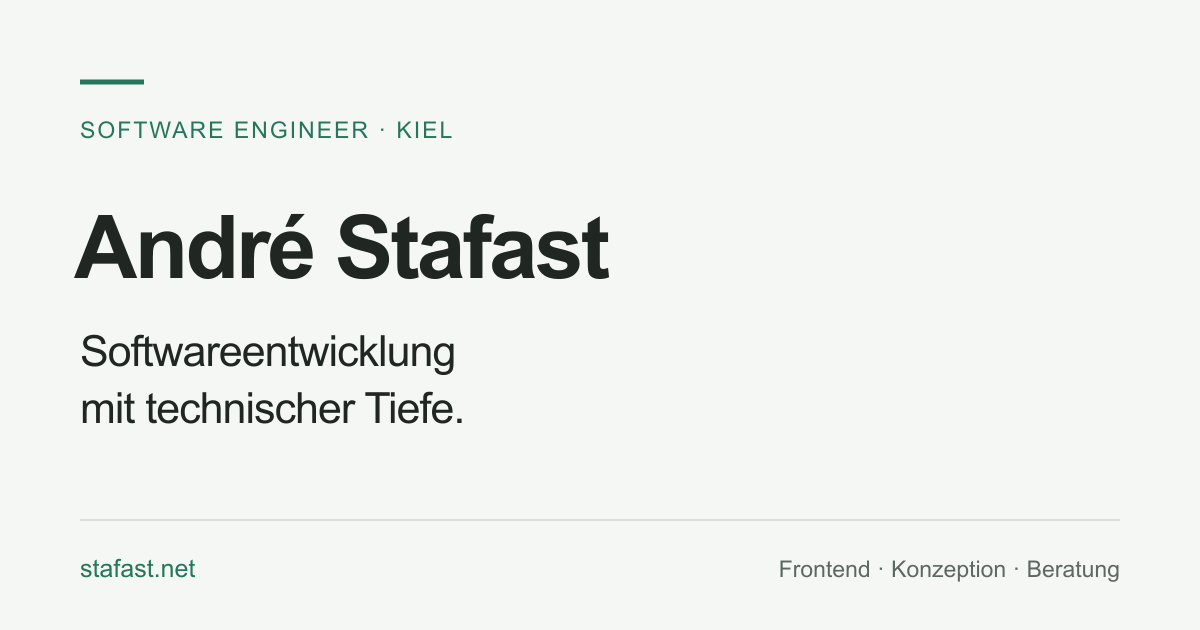
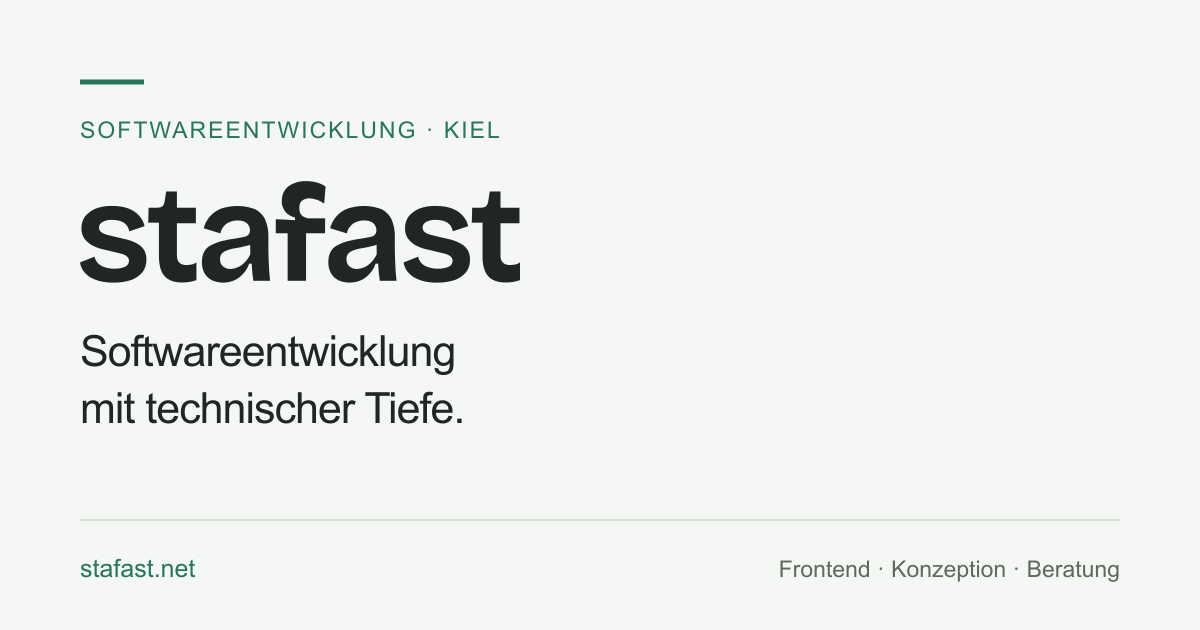
update

Changed region(s): [[0.0617, 0.2714, 0.5242, 0.4524], [0.185, 0.181, 0.4008, 0.2413]]

diff --git a/stafast.config.ts b/stafast.config.ts
@@ -2,16 +2,19 @@ import { defineStafastConfig } from "@/config/schema.ts";
 
 export default defineStafastConfig({
     site: {
-        name: "André Stafast",
+        name: "stafast",
         url: "https://stafast.net",
         language: "de",
         locale: "de_DE",
     },
+    person: {
+        name: "André Stafast",
+    },
     seo: {
-        title: "André Stafast — Softwareentwicklung mit technischer Tiefe",
-        titleTemplate: "%s — André Stafast",
+        title: "stafast — Softwareentwicklung mit technischer Tiefe",
+        titleTemplate: "%s — stafast",
         description:
-            "André Stafast ist Software Engineer aus Kiel mit Schwerpunkt Frontend. Er entwickelt wartbare Webanwendungen und berät bei der technischen Umsetzung.",
+            "stafast steht für Softwareentwicklung und technische Beratung aus Kiel. André Stafast entwickelt wartbare Webanwendungen mit Schwerpunkt Frontend.",
         defaultImage: "/og-stafast.png",
     },
     blog: {

diff --git a/src/data/work.ts b/src/data/work.ts
@@ -89,7 +89,7 @@ export const experience: ExperienceSection[] = [
         entries: [
             {
                 id: "andre-stafast",
-                organization: "André Stafast",
+                organization: "stafast",
                 role: "Software Engineer & Consultant · selbstständig",
                 period: "Seit Februar 2013",
                 description:

diff --git a/src/config/schema.ts b/src/config/schema.ts
@@ -95,6 +95,9 @@ export const stafastConfigSchema = z.object({
         language: z.string().min(2).default("en"),
         locale: z.string().min(2).default("en_GB"),
     }),
+    person: z.object({
+        name: z.string().trim().min(1),
+    }),
     seo: z.object({
         title: z.string().min(1),
         titleTemplate: z.string().min(1),
